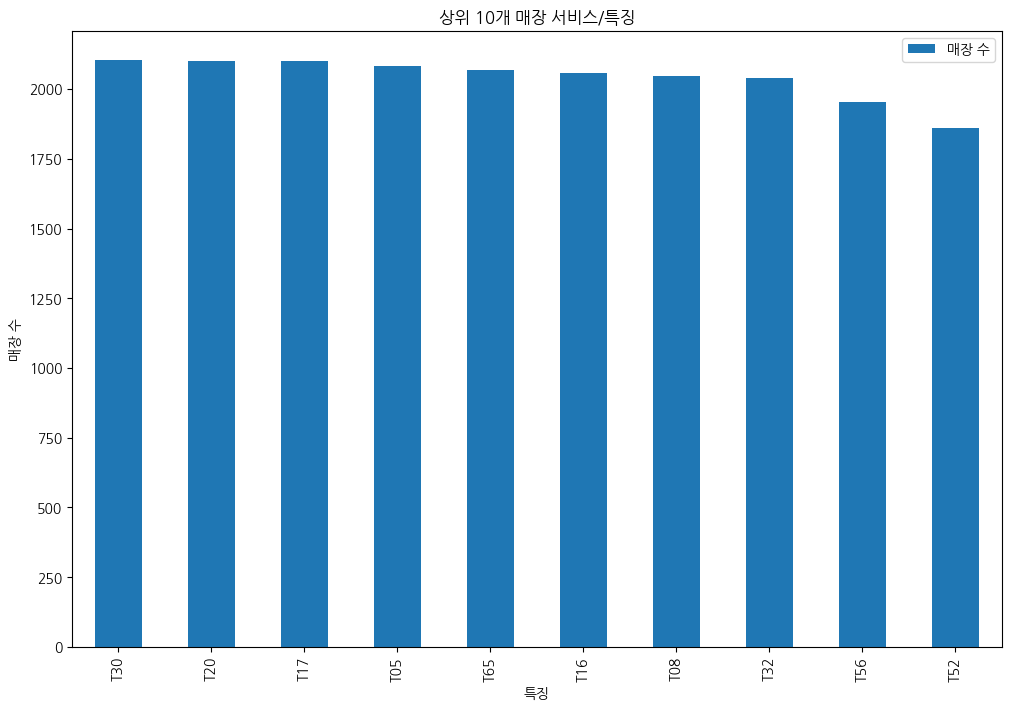
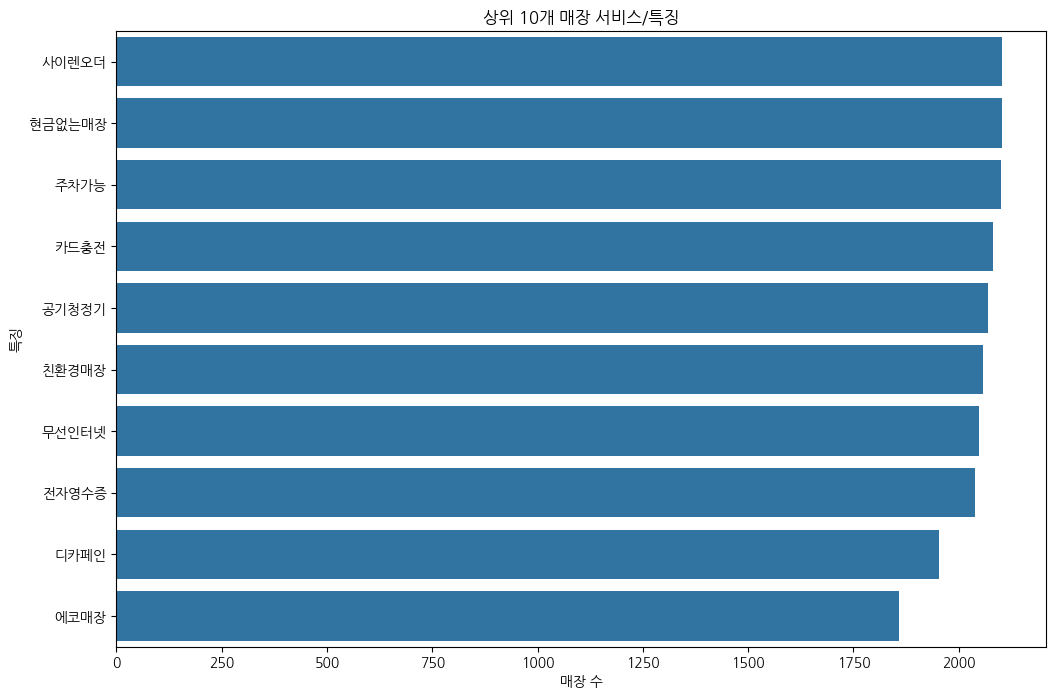
starbucks code update

diff --git a/starbucks_stores/eda_analyzer.py b/starbucks_stores/eda_analyzer.py
@@ -113,26 +113,35 @@ def main():
     # --- 2. 매장 특성 분석 (theme_state) ---
     add_to_report("## 2. 매장 특성 분석 (theme_state)")
 
-    # theme_state에서 특성 추출
-    all_themes = []
-    df['theme_state'].dropna().str.split('@').apply(lambda themes: all_themes.extend(theme for theme in themes if theme))
+    starbucks_service_codes = {
+        "T30": "사이렌오더", "T20": "현금없는매장", "T17": "주차가능", "T05": "카드충전",
+        "T65": "공기청정기", "T16": "친환경매장", "T08": "무선인터넷", "T32": "전자영수증",
+        "T56": "디카페인", "T52": "에코매장", "T34": "딜리버스", "T21": "기프트카드",
+        "T43": "현금영수증", "P80": "블론드", "P90": "티바나", "Z9999": "일반서비스"
+    }
 
-    feature_summary = pd.Series(all_themes).value_counts()
+    # theme_state에서 특성 추출 및 변환
+    all_theme_names = []
+    df['theme_state'].dropna().str.split('@').apply(
+        lambda themes: all_theme_names.extend(
+            starbucks_service_codes.get(theme, theme) for theme in themes if theme
+        )
+    )
+
+    feature_summary = pd.Series(all_theme_names).value_counts()
 
     if not feature_summary.empty:
         feature_summary_df = pd.DataFrame(feature_summary).reset_index()
         feature_summary_df.columns = ['특징', '매장 수']
 
         add_to_report("### 매장별 제공 서비스/특징 (상위 10개)")
-        add_to_report(feature_summary_df.head(10).to_markdown())
+        add_to_report("매장별로 제공되는 서비스와 특징을 분석하여 상위 10개 항목을 표시합니다. '사이렌오더', '현금없는매장', '주차가능' 등의 서비스가 많은 매장에서 제공되는 것을 확인할 수 있습니다.")
+        add_to_report(feature_summary_df.head(10).to_markdown(index=False))
 
         fig, ax = plt.subplots(figsize=(12, 8))
-        feature_summary_df.head(10).set_index('특징').plot(kind='bar', ax=ax)
+        sns.barplot(data=feature_summary_df.head(10), x='매장 수', y='특징', ax=ax)
         ax.set_title('상위 10개 매장 서비스/특징')
-        ax.set_ylabel('매장 수')
         save_plot(fig, 'top10_features.png', '상위 10개 매장 서비스/특징')
-        add_to_report(feature_summary_df.head(10).to_markdown())
-
     else:
         add_to_report("분석할 수 있는 매장 특성(theme_state) 정보가 부족합니다.")
 
@@ -175,7 +184,7 @@ def main():
     add_to_report("## 5. 주요 비즈니스 인사이트 및 6. 데이터 품질 검증")
     add_to_report(""")
 - **입지 경쟁력**: 매장은 주로 '서울', '경기' 등 수도권에 집중되어 있으며, 특히 강남구, 서초구, 중구 등 오피스 및 상업 중심지에 밀집되어 있습니다. 이는 유동인구가 많은 핵심 상권을 타겟으로 하는 전략으로 해석됩니다.
-- **고객 편의성**: `t01`(무선인터넷), `t03`(테라스) 등의 편의 시설 제공 여부를 통해 고객 경험을 향상시키려는 노력을 엿볼 수 있습니다.
+- **고객 편의성**: '무선인터넷', '주차가능' 등 고객 편의성을 높이는 서비스들이 대부분의 매장에서 제공되고 있습니다. 이를 통해 고객 경험을 향상시키려는 노력을 엿볼 수 있습니다.
 - **데이터 품질**:
   - `open_dt`에서 일부 날짜 변환에 실패한 데이터(NaT)가 존재할 수 있어 확인이 필요합니다.
   - `lat`, `lot` 좌표의 경우, 대한민국 범위를 벗어나는 값이 있는지 확인하여 데이터의 신뢰성을 검증해야 합니다. (예: 위도 33-39, 경도 124-132 범위)

diff --git a/starbucks_stores/eda_report.md b/starbucks_stores/eda_report.md
@@ -215,35 +215,24 @@ p02                          0.000000
 
 ### 매장별 제공 서비스/특징 (상위 10개)
 
-|    | 특징   |   매장 수 |
-|---:|:-----|-------:|
-|  0 | T30  |   2103 |
-|  1 | T20  |   2102 |
-|  2 | T17  |   2100 |
-|  3 | T05  |   2082 |
-|  4 | T65  |   2069 |
-|  5 | T16  |   2058 |
-|  6 | T08  |   2048 |
-|  7 | T32  |   2038 |
-|  8 | T56  |   1953 |
-|  9 | T52  |   1859 |
+매장별로 제공되는 서비스와 특징을 분석하여 상위 10개 항목을 표시합니다. '사이렌오더', '현금없는매장', '주차가능' 등의 서비스가 많은 매장에서 제공되는 것을 확인할 수 있습니다.
+
+| 특징     |   매장 수 |
+|:-------|-------:|
+| 사이렌오더  |   2103 |
+| 현금없는매장 |   2102 |
+| 주차가능   |   2100 |
+| 카드충전   |   2082 |
+| 공기청정기  |   2069 |
+| 친환경매장  |   2058 |
+| 무선인터넷  |   2048 |
+| 전자영수증  |   2038 |
+| 디카페인   |   1953 |
+| 에코매장   |   1859 |
 
 ### 상위 10개 매장 서비스/특징
 
 ![상위 10개 매장 서비스/특징](images\top10_features.png)
-
-|    | 특징   |   매장 수 |
-|---:|:-----|-------:|
-|  0 | T30  |   2103 |
-|  1 | T20  |   2102 |
-|  2 | T17  |   2100 |
-|  3 | T05  |   2082 |
-|  4 | T65  |   2069 |
-|  5 | T16  |   2058 |
-|  6 | T08  |   2048 |
-|  7 | T32  |   2038 |
-|  8 | T56  |   1953 |
-|  9 | T52  |   1859 |
 
 ## 3. 주변 위치적 특징 분석
 
@@ -355,7 +344,7 @@ p02                          0.000000
 
 )
 - **입지 경쟁력**: 매장은 주로 '서울', '경기' 등 수도권에 집중되어 있으며, 특히 강남구, 서초구, 중구 등 오피스 및 상업 중심지에 밀집되어 있습니다. 이는 유동인구가 많은 핵심 상권을 타겟으로 하는 전략으로 해석됩니다.
-- **고객 편의성**: `t01`(무선인터넷), `t03`(테라스) 등의 편의 시설 제공 여부를 통해 고객 경험을 향상시키려는 노력을 엿볼 수 있습니다.
+- **고객 편의성**: '무선인터넷', '주차가능' 등 고객 편의성을 높이는 서비스들이 대부분의 매장에서 제공되고 있습니다. 이를 통해 고객 경험을 향상시키려는 노력을 엿볼 수 있습니다.
 - **데이터 품질**:
   - `open_dt`에서 일부 날짜 변환에 실패한 데이터(NaT)가 존재할 수 있어 확인이 필요합니다.
   - `lat`, `lot` 좌표의 경우, 대한민국 범위를 벗어나는 값이 있는지 확인하여 데이터의 신뢰성을 검증해야 합니다. (예: 위도 33-39, 경도 124-132 범위)

diff --git a/README.md b/README.md
@@ -7,3 +7,6 @@
 @C:\webscraping_gemini\starbucks_stores\agent_prd_scraping.md 내용을 분석하여 데이터를 수집하고 csv 파일을 생성해 주세요
 
 @C:\webscraping_gemini\starbucks_stores\agent_prd_eda.md 문서에 따라 데이터 전처리와 분석을 하고 결과를 마크다운 파일로 저장하세요.
+
+@C:\webscraping_gemini\starbucks_stores\eda_report.md 보고서에 아래의 내용이 반영되도록 eda_analyzer.py를 수정해줘. 매장의 특징을 코드 대신 설명으로 보고서에 나타나도록 수정해야 함 예를 들어 T30 대신에 사이렌오더 출력해야 함
+starbucks_service_codes = { "T30": "사이렌오더", "T20": "현금없는매장", "T17": "주차가능", "T05": "카드충전", "T65": "공기청정기", "T16": "친환경매장", "T08": "무선인터넷", "T32": "전자영수증", "T56": "디카페인", "T52": "에코매장", "T34": "딜리버스", "T21": "기프트카드", "T43": "현금영수증", "P80": "블론드", "P90": "티바나", "Z9999": "일반서비스" }
